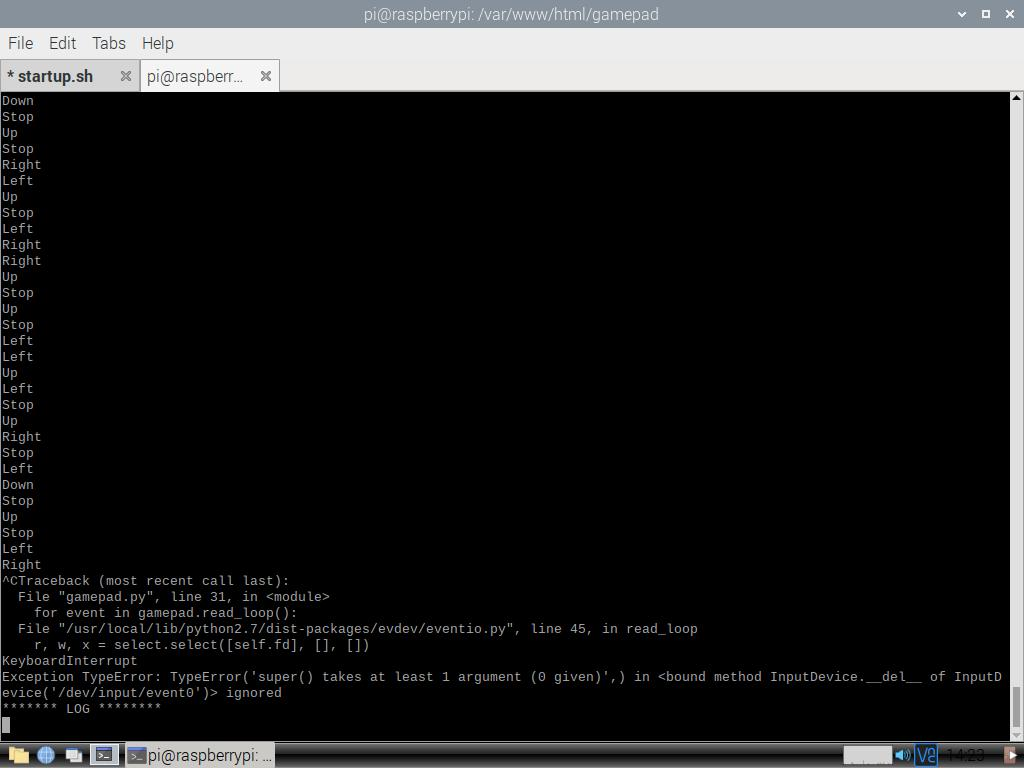
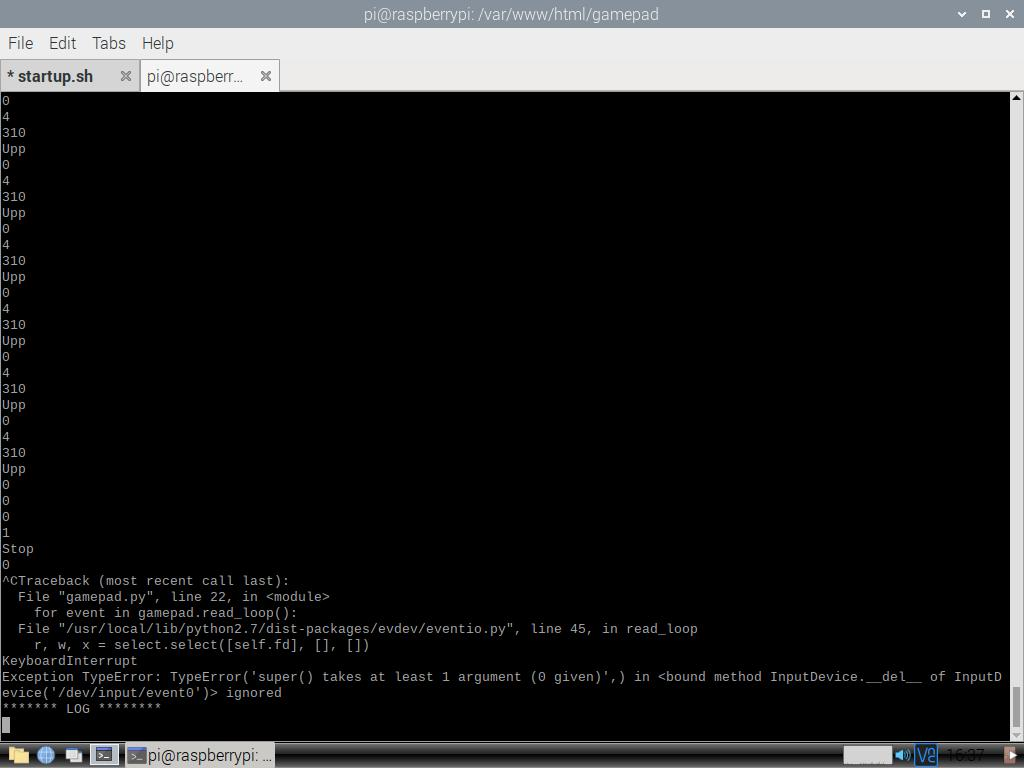
Add files to repo

Changed region(s): [[0.0, 0.375, 0.0312, 0.75], [0.0, 0.125, 0.0312, 0.3438]]

diff --git a/gamepad/gamepad.py b/gamepad/gamepad.py
@@ -1,34 +1,26 @@
 #Modified code from here: https://github.com/sunfounder/SunFounder_PiCar-V/blob/master/ball_track/ball_tracker.py
 #Created by Kepler Electronics, https://www.youtube.com/keplerelectronics
-#import explorerhat
-#import os
-#import time
 from picar import front_wheels, back_wheels
 from picar.SunFounder_PCA9685 import Servo
 import picar
+import time
 from time import sleep
-#import cv2
 import numpy as np
 import picar #a second time?
 import os
-
-#explorerhat.motor.one.invert()
-
 from evdev import InputDevice, categorize, ecodes
-
 gamepad = InputDevice('/dev/input/event0')
 print(gamepad)
-
 turnServo = Servo.Servo(0);
 picar.setup()
 bw = picar.back_wheels.Back_Wheels()
-speedup = 0;
-acc = 0
-
-
-
-
+speedup = 0
+bw.forward()
+bw.speed = 50 
+time.sleep(5)
+bw.stop()
 for event in gamepad.read_loop():
+    print(event.code)
     if event.type == ecodes.EV_ABS:
         if event.code == 0:
             if event.value == 0:
@@ -42,24 +34,27 @@ for event in gamepad.read_loop():
                 #explorerhat.motor.one.stop()
         elif event.code == 1:
             if event.value == 0:
-                acc = 7 
-                speedup = 35 
+                bw.backward() 
+                speedup = 100 
                 print("Up");#explorerhat.motor.two.forwards(event.value-155)
             elif event.value == 2:
-                acc = 4 
-                speedup = 35
+                bw.forward() 
+                speedup = 100 
                 print("Down");#explorerhat.motor.two.backwards((100-event.value))
             else:
                 bw.stop()#turnServo.write(0);
+                speedup = 0 
                 #explorerhat.motor.two.stop()
                 print("Stop")
-    if(speedup < 100):
-        speedup = speedup + acc
-    speedup = speedup - 1
-    if(acc == 7):
-        bw.backward()
-    if(acc == 4):
-        bw.forward()
-    if(speedup < 100):
-        bw.speed = speedup
+    elif event.code == 310:
+        speedup = speedup + 10
+        print("Upp")
+    elif event.code == 311:
+        speedup = speedup - 10
+        print("Doown")
+
+    if(speedup <= 100):
+        if(speedup >= 0):
+            bw.speed = speedup
+
 
